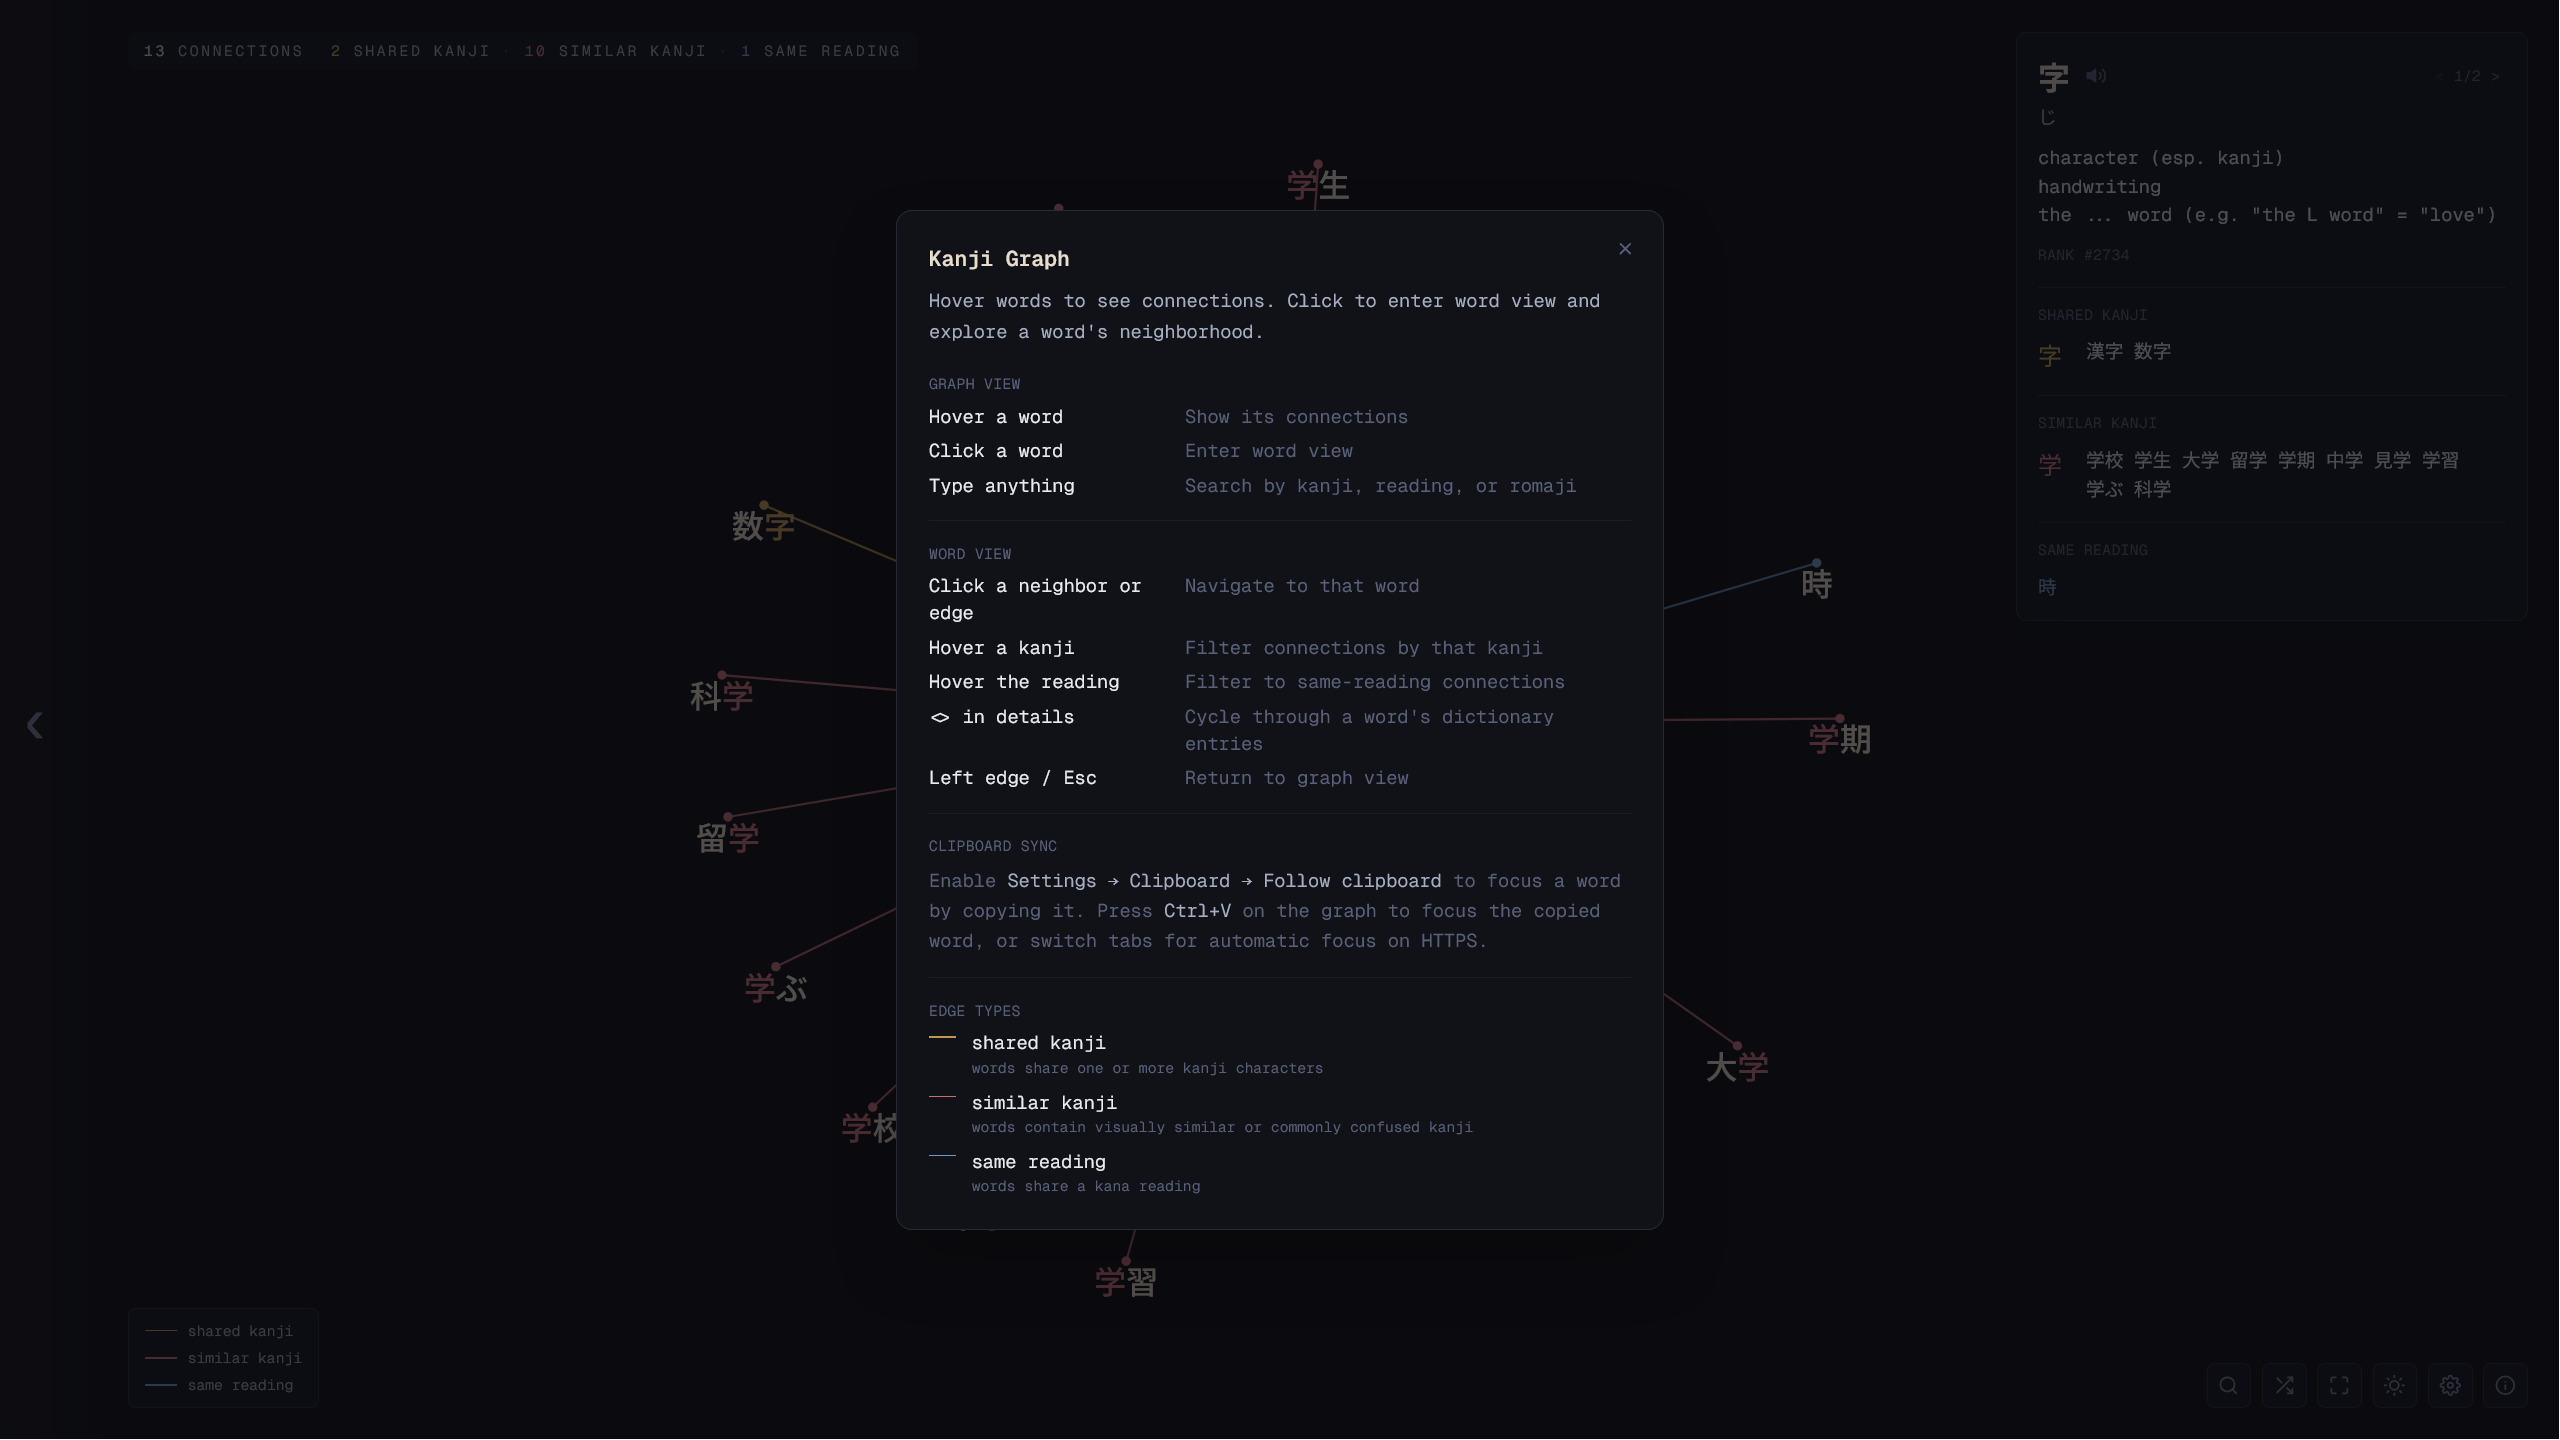
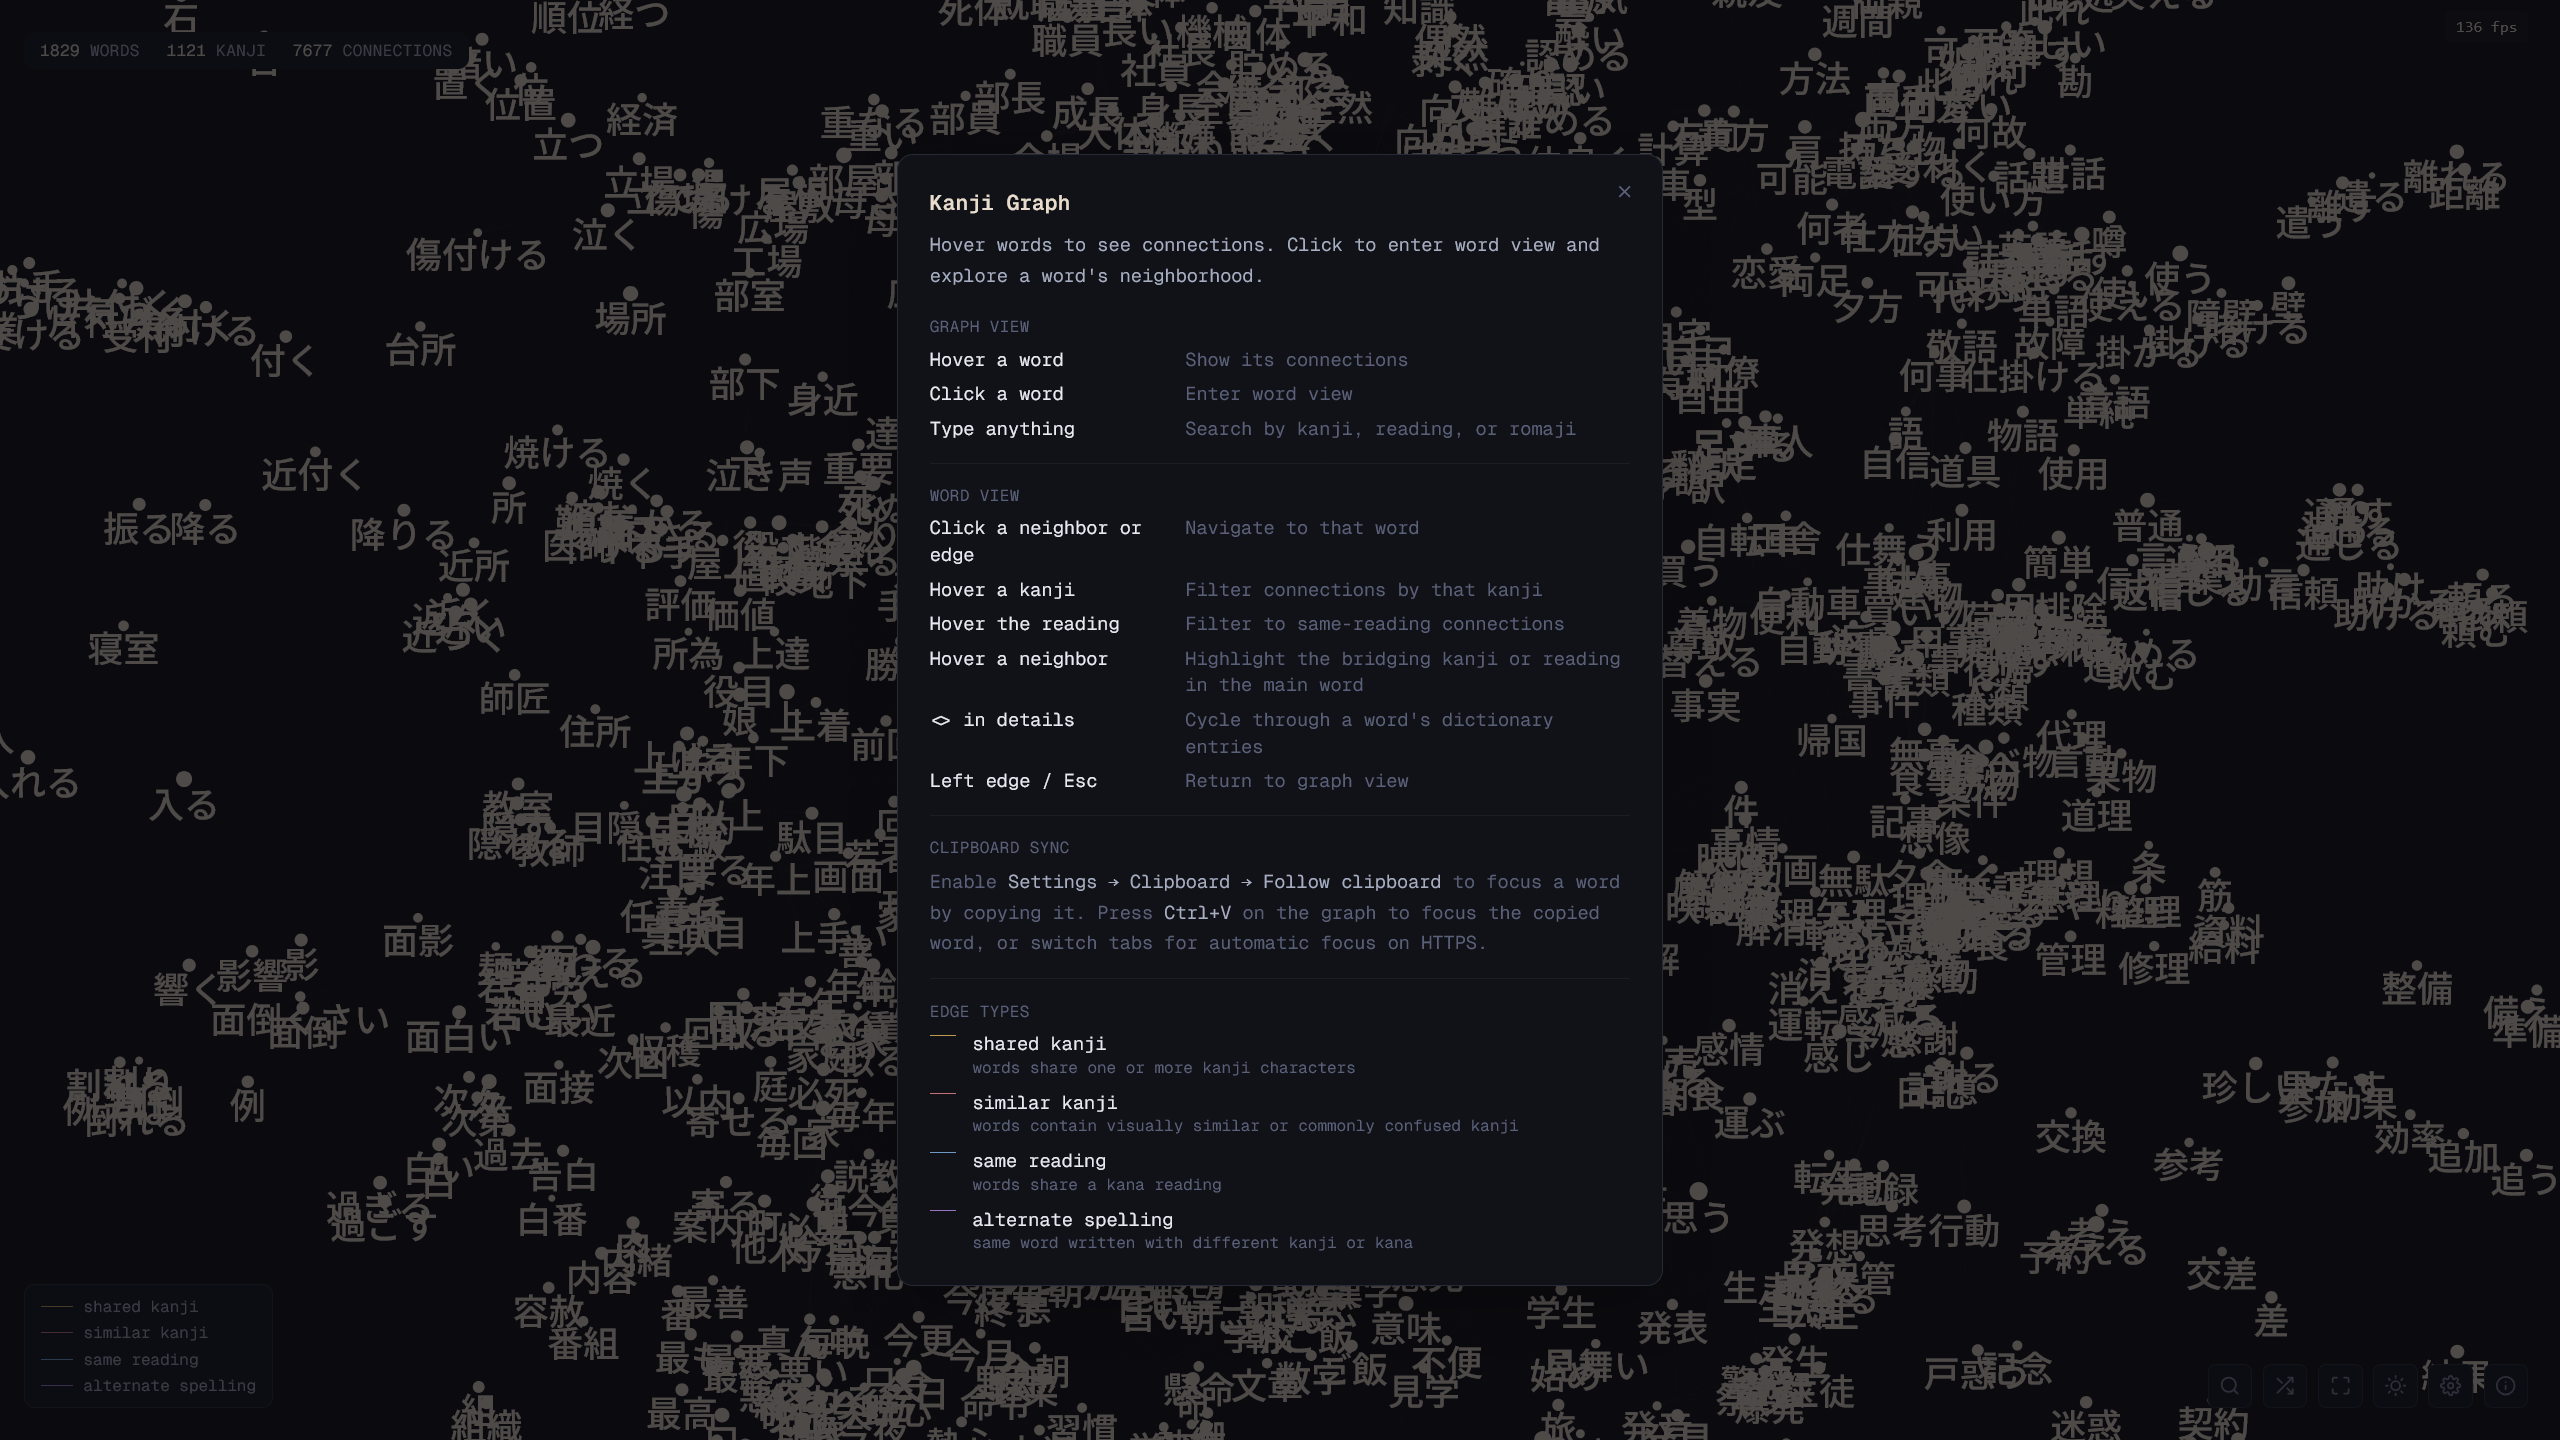
content: update screenshots

diff --git a/README.md b/README.md
@@ -9,15 +9,15 @@ Interactive web tool for visualizing connections between Japanese words you've l
 <table align="center" width="100%"><tr>
   <td align="center" width="50%">
     <picture>
-      <source media="(prefers-color-scheme: dark)" srcset="docs/graph_dark.png">
-      <source media="(prefers-color-scheme: light)" srcset="docs/graph_light.png">
+      <source media="(prefers-color-scheme: dark)" srcset="docs/graph_hover_面白い_dark.png">
+      <source media="(prefers-color-scheme: light)" srcset="docs/graph_hover_面白い_light.png">
       <img src="docs/graph_dark.png" alt="Graph view">
     </picture>
   </td>
   <td align="center" width="50%">
     <picture>
-      <source media="(prefers-color-scheme: dark)" srcset="docs/字_dark.png">
-      <source media="(prefers-color-scheme: light)" srcset="docs/字_light.png">
+      <source media="(prefers-color-scheme: dark)" srcset="docs/最初_dark.png">
+      <source media="(prefers-color-scheme: light)" srcset="docs/最初_light.png">
       <img src="docs/字_dark.png" alt="Word view">
     </picture>
   </td>
